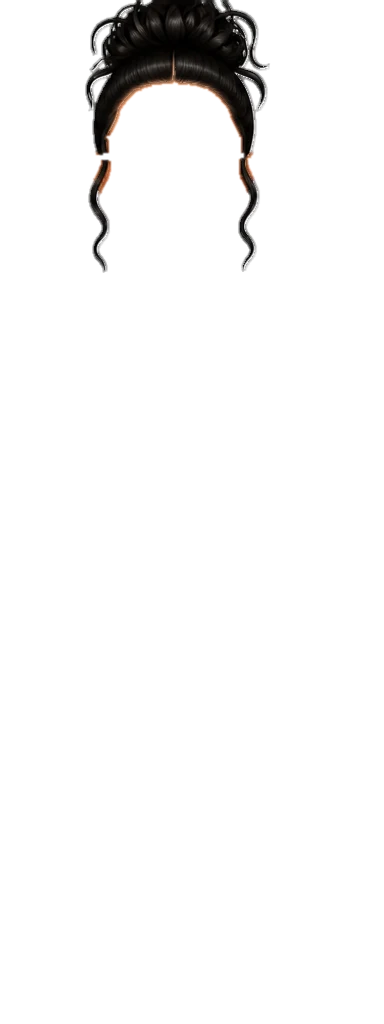
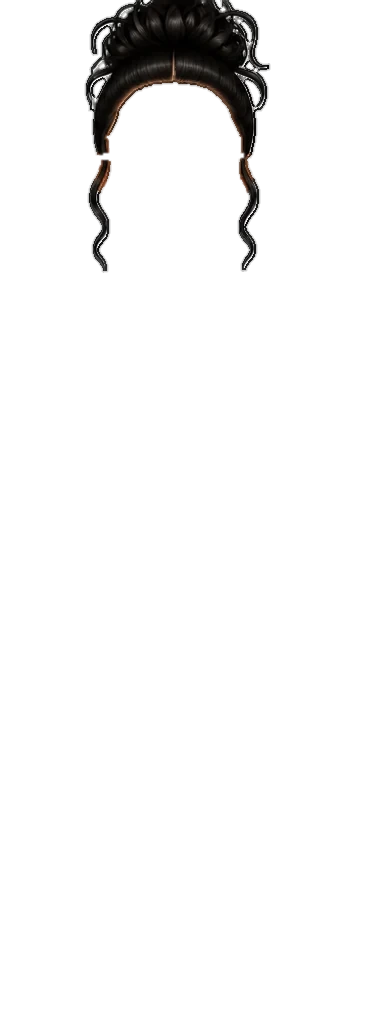
boneca nova e cabelos sem borda

diff --git a/components/Bonequinha.tsx b/components/Bonequinha.tsx
@@ -77,6 +77,8 @@ function preencher(mascara: HTMLImageElement, cor: string) {
 
 async function desenharBoneca(ctx: CanvasRenderingContext2D, l: Look, aj: Ajustes, marcar: string | null = null) {
   ctx.clearRect(0, 0, W, H);
+  // pedacinho do cabelo que fica atrás do corpo (tapa a frestinha entre o braço e o cabelo)
+  if (l.cabelo) ctx.drawImage(await carregar(`${P}/cabelos/${l.cabelo}-atras.webp`), 0, 0);
   ctx.drawImage(await carregar(`${P}/base.webp`), 0, 0);
   // com sapato, esconde os dedos da boneca que ficariam aparecendo por trás
   if (l.sapato) { ctx.save(); ctx.globalCompositeOperation = "destination-out"; ctx.fillRect(0, 975, W, H - 975); ctx.restore(); }
